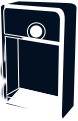
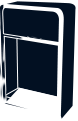
by darre

diff --git a/css/second.css b/css/second.css
@@ -1,6 +1,6 @@
 body{
   background:url(../images/allseason/bg.jpg) center top no-repeat;
-  background-size:7.5rem;
+  background-size:7.5rem 13.36rem;
   background-color:#01081d;
   width:7.5rem;
   height:13.34rem;

diff --git a/css/third.css b/css/third.css
@@ -1,6 +1,6 @@
 body{
   background:url(../images/ht/bg.jpg) center top no-repeat;
-  background-size:7.5rems;
+  background-size:7.5rem 13.36rem;
   background-color:#01081d;
   width:7.5rem;
   height:13.34rem;

diff --git a/css/main.css b/css/main.css
@@ -1,6 +1,6 @@
 body{
   background:url(../images/bg.jpg) center top no-repeat;
-  background-size:7.5rem;
+  background-size:7.5rem 13.36rem;
   background-color:#01081d;
   width:7.5rem;
   height:13.34rem;
